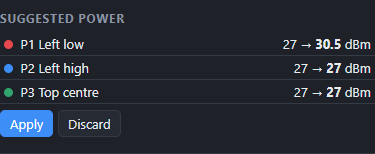
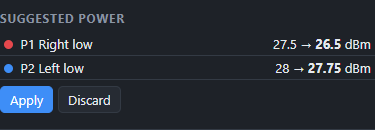
Manual screenshots with the layout-search result (one antenna low on each upright)
- Screenshot scenario uses the best layout found with the new defaults
- Manual: tutorial layout-search table, limit-heatmap example (gap under the arch with
  pessimistic values), updated calibration example and lessons learned

Changed region(s): [[0.0, 0.2462, 1.0, 0.8923], [0.0, 0.0615, 0.352, 0.1846], [0.176, 0.7385, 0.2933, 0.8615]]

diff --git a/README.md b/README.md
@@ -3,7 +3,7 @@
 Plan, simulate and tune UHF RFID finish-line antennas for motocross timing with
 [CrossMgrImpinj](https://github.com/esitarski/CrossMgr/tree/master/CrossMgrImpinj) and crossmgr-interface.
 
-![Overview: finish table after a 90° right turn, three antennas on the arch, read zones, rider and tag links](docs/images/overview.png)
+![Overview: finish table after a 90° right turn, one antenna low on each upright (layout-search result), read zones, rider and tag links](docs/images/overview.png)
 
 You build the finish area in 3D: track with turns, ramps and a finish table, the aluminium finish arch, antennas, obstacles, the bike and its tags. The planner then shows:
 
@@ -81,7 +81,7 @@ Everything recalculates automatically, about 0.2 s after the last change. The se
 
 ## 3. Tutorial: planning a finish table after a right turn
 
-This walkthrough uses the example the screenshots show. The finish arch stands on a 1.2 m high finish table directly after a 90° right turn. Two antennas are on the left upright, one hangs from the crossbar. Riders carry an Avery Dennison Dogbone (Impinj M730) on the left fork leg.
+This walkthrough uses the example the screenshots show. The finish arch stands on a 1.2 m high finish table directly after a 90° right turn. Riders carry an Avery Dennison Dogbone (Impinj M730) on the left fork leg. The preset starts with three antennas (two on the left upright, one on the crossbar). The screenshots show the result of the layout search in step 7: one antenna low on each upright (0.4 m above the base, aimed across, 15° down, 27.5 / 28 dBm).
 
 **Step 1 – Track.** *Track & view* → preset *Finish table after a 90° right turn* → **New setup**. The track is approach → right turn (R 10 m) → 5 m ramp up +1.2 m → 14 m table (finish 4 m in) → ramp down → run-out.
 
@@ -99,7 +99,17 @@ Adjust lengths, radius, heights and widths to your venue (see [4.2](#42-track-se
 
 **Step 6 – Simulate.** *Simulation* → check the **Virtual wall**. The goal is 0 % missed, mean offset close to 0 and a small spread, also for the corner-cut line (riders coming in on the right edge and crossing next to the left antennas).
 
-**Step 7 – Optimise.** **Optimise power** tunes the current layout; **Find best layout** also moves antennas on the arch. Apply what you like.
+**Step 7 – Optimise.** **Optimise power** tunes the current layout; **Find best layout** also moves antennas on the arch. Apply what you like. For this example the search gave (1–4 antennas, full search):
+
+| Antennas | Score | Missed | Offset | Spread | Worst line |
+| --- | --- | --- | --- | --- | --- |
+| Preset (3 antennas) | 40.1 | 0 % | −5 cm | 21 cm | 27 cm |
+| 1 | 20.7 | 0 % | −4 cm | 10 cm | 15 cm |
+| **2 (best)** | **10.0** | **0 %** | **+1 cm** | **6 cm** | **5 cm** |
+| 3 | 10.5 | 0 % | −1 cm | 8 cm | 5 cm |
+| 4 | 13.8 | 0 % | −1 cm | 11 cm | 5 cm |
+
+Two and three antennas are effectively tied; three give a spare antenna for racing.
 
 **Step 8 – At the track.** Stop CrossMgrImpinj, connect the planner to the reader, push the antenna config and walk or ride a test tag through marked lanes. The **Calibration** table corrects the model (see [8.2](#82-at-the-track-calibration)). Re-optimise, then enter the final per-port powers in CrossMgrImpinj.
 
@@ -171,10 +181,10 @@ Example of changing widths: a 6 m approach, tapering to a 10 m finish table, tap
 | Red – Tag not powered | the forward link is too weak: not enough power reaches the tag | more Tx power, closer / better aimed antenna |
 | Blue – Reply too weak | the tag answers, but below the reader's Rx sensitivity | better Rx sensitivity, less cable loss, closer antenna |
 
-Example: the default layout (two antennas on the left upright, one on the crossbar; top view, rider's left at the top), with pessimistic values (Rx −70 dBm, 10 dB bike shadow, left) and with the defaults (Rx −80 dBm, 6 dB, right).
+Example: the layout-search result (one antenna low on each upright; top view, rider's left at the top), with pessimistic values (Rx −70 dBm, 10 dB bike shadow, left) and with the defaults (Rx −80 dBm, 6 dB, right).
 
-- **Pessimistic values:** the readable area (green) stays near the left upright. Around it, the tag mounting is the limit (violet): the fork tag sits 15 mm from the metal tube (4.5 dB each way), leans 27° back, and is weak towards the overhead antenna. Further out the reply is too weak (blue).
-- **Defaults:** the readable area covers most of the table. The violet ring shows that a better-mounted tag (more spacing from metal) would extend it further; beyond that the tag is not powered (red).
+- **Pessimistic values:** there is a gap under the arch. The left antenna reads the left half. The right antenna only reads right next to itself, because the left-fork tag is shadowed towards it by fork, wheel and engine, so most of the right half is violet (tag mounting). Further out the reply is too weak (blue).
+- **Defaults:** the readable area covers the whole track width at the finish. The violet ring shows where a better-mounted tag (more spacing from metal, no shadow) would still be read; beyond it the tag is not powered (red).
 
 | Rx −70 dBm, 10 dB shadow | Rx −80 dBm, 6 dB shadow (defaults) |
 | --- | --- |
@@ -479,7 +489,7 @@ For every closed pass with a marked lane, each port's measured peak RSSI is comp
 - **Measured − model**: mean difference per port.
 - **Suggested cable loss**: the offset folded into the antenna's loss (RSSI counts it twice, so the loss changes by −offset / 2). **Apply** sets it.
 
-In the example above, the simulated reader had 3 dB extra loss on port 2. Calibration found −5.6 dB RSSI and suggests 3.8 dB cable loss (true: 4.0 dB); ports 1 and 3 stay near 0.
+In the example above, the simulated reader had 3 dB extra loss on port 2. Calibration found −5.9 dB RSSI and suggests 4.0 dB cable loss (true: 4.0 dB); port 1 stays near 0.
 
 ---
 
@@ -538,9 +548,9 @@ The tag gain includes the dipole pattern: sin² of the angle between dipole axis
 
 ## 10. Reading the results – lessons learned
 
-These came out of the finish-table example and are worth checking for your own setup:
+These came out of the finish-table example and are worth checking for your own setup. The metal and two-tag numbers were measured with the preset's three antennas, before the layout search; the effects are the same with the optimised layout.
 
-- **Receiver sensitivity is often the limit.** The tag gets enough power, but its reply is below the reader's Rx threshold (blue in *What limits the read*). With the example, Rx −70 dBm gave 25 % missed passes; −80 dBm (the default) gave 0 % and halved the spread. Check what CrossMgrImpinj uses.
+- **Receiver sensitivity is often the limit.** The tag gets enough power, but its reply is below the reader's Rx threshold (blue in *What limits the read*). With the preset's three antennas, Rx −70 dBm gave 25 % missed passes; −80 dBm (the default) gave 0 % and halved the spread. Check what CrossMgrImpinj uses.
 - **Small zones or a gap under the arch?** Switch the heatmap to *What limits the read*. Violet means the tag mounting (orientation, bike shadow, metal) is the cause; moving antennas or aiming them differently helps more than power.
 - **Metal kills dipole inlays.** A Dogbone directly on the fork tube missed 100 % of passes; on the fork guard (15 mm) 0 %, with 92 reads per pass; at 40 mm 172 reads.
 - **Orientation matters.** An antenna looking along the tag's dipole barely reads it. The overhead antenna got **no** reads from a vertical fork tag, but 30–66 reads per pass from a horizontal tag.
@@ -556,7 +566,7 @@ These came out of the finish-table example and are worth checking for your own s
   | Fork tag on metal + helmet | 0 % | +37 cm | 43 cm |
 
   A constant offset treats every rider the same and can be removed by moving the virtual wall; a large spread cannot. With two tags, *strongest antenna* was clearly better.
-- **More antennas are not automatically better.** Port switching shares the read time. In the example the best layout had two antennas (one per upright), not three or four.
+- **More antennas are not automatically better.** Port switching shares the read time. In the example the best layout had two antennas low on each upright (score 10.0), three were equal within noise (10.5) and four worse (13.8). The overhead antenna never made it into the result, because it looks along the fork tag's vertical dipole.
 - **Test the corner-cut line.** Riders coming in on the far edge and crossing next to one side's antennas are the typical weak spot after a turn.
 
 ---
